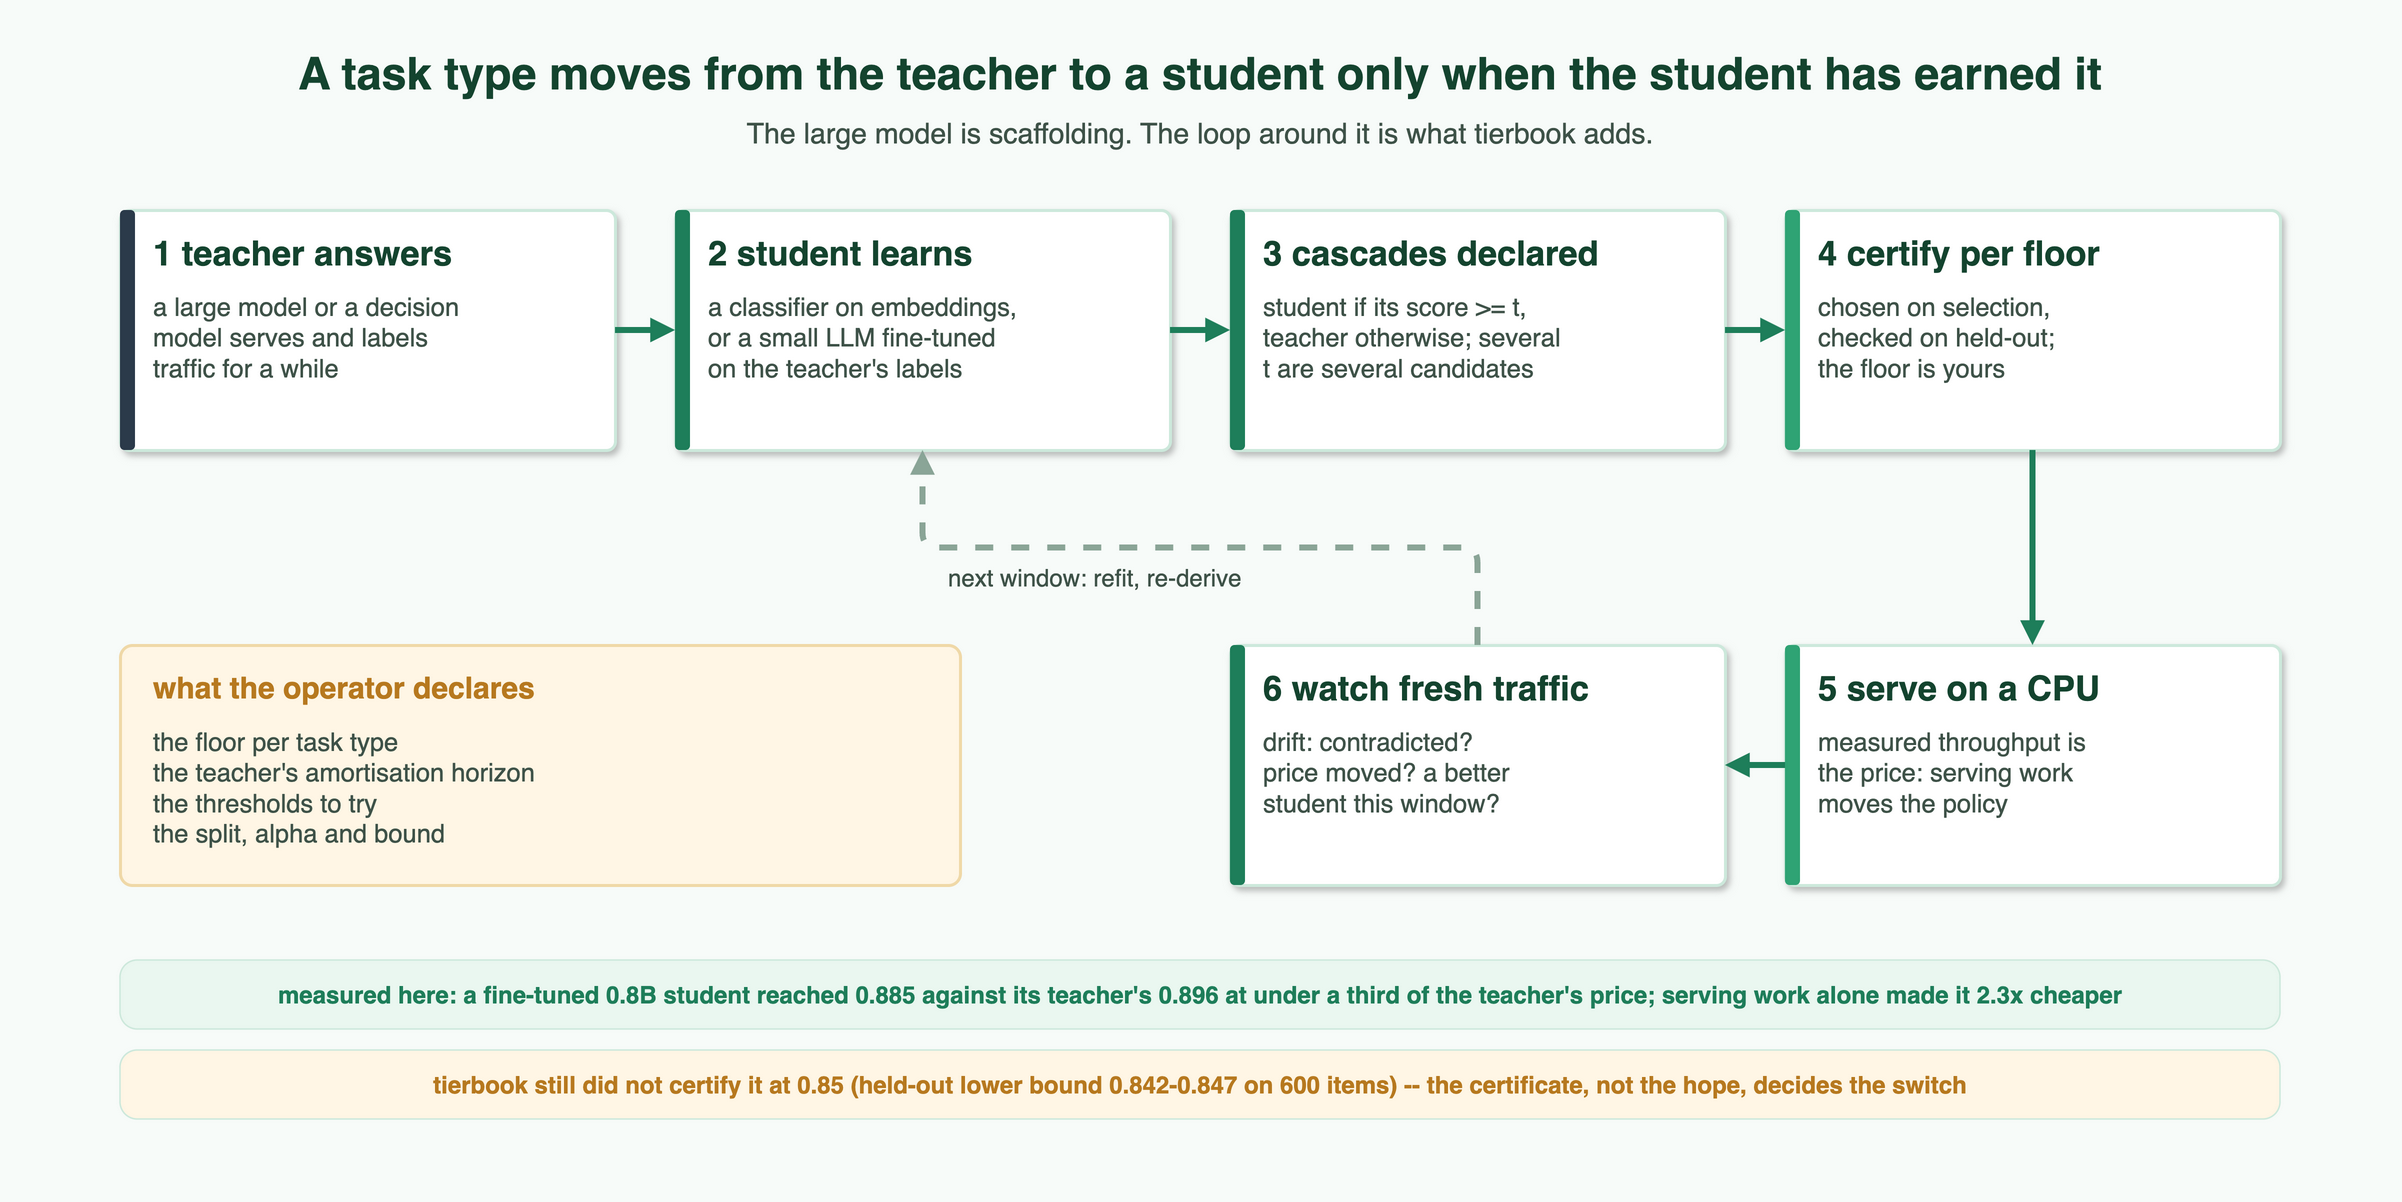
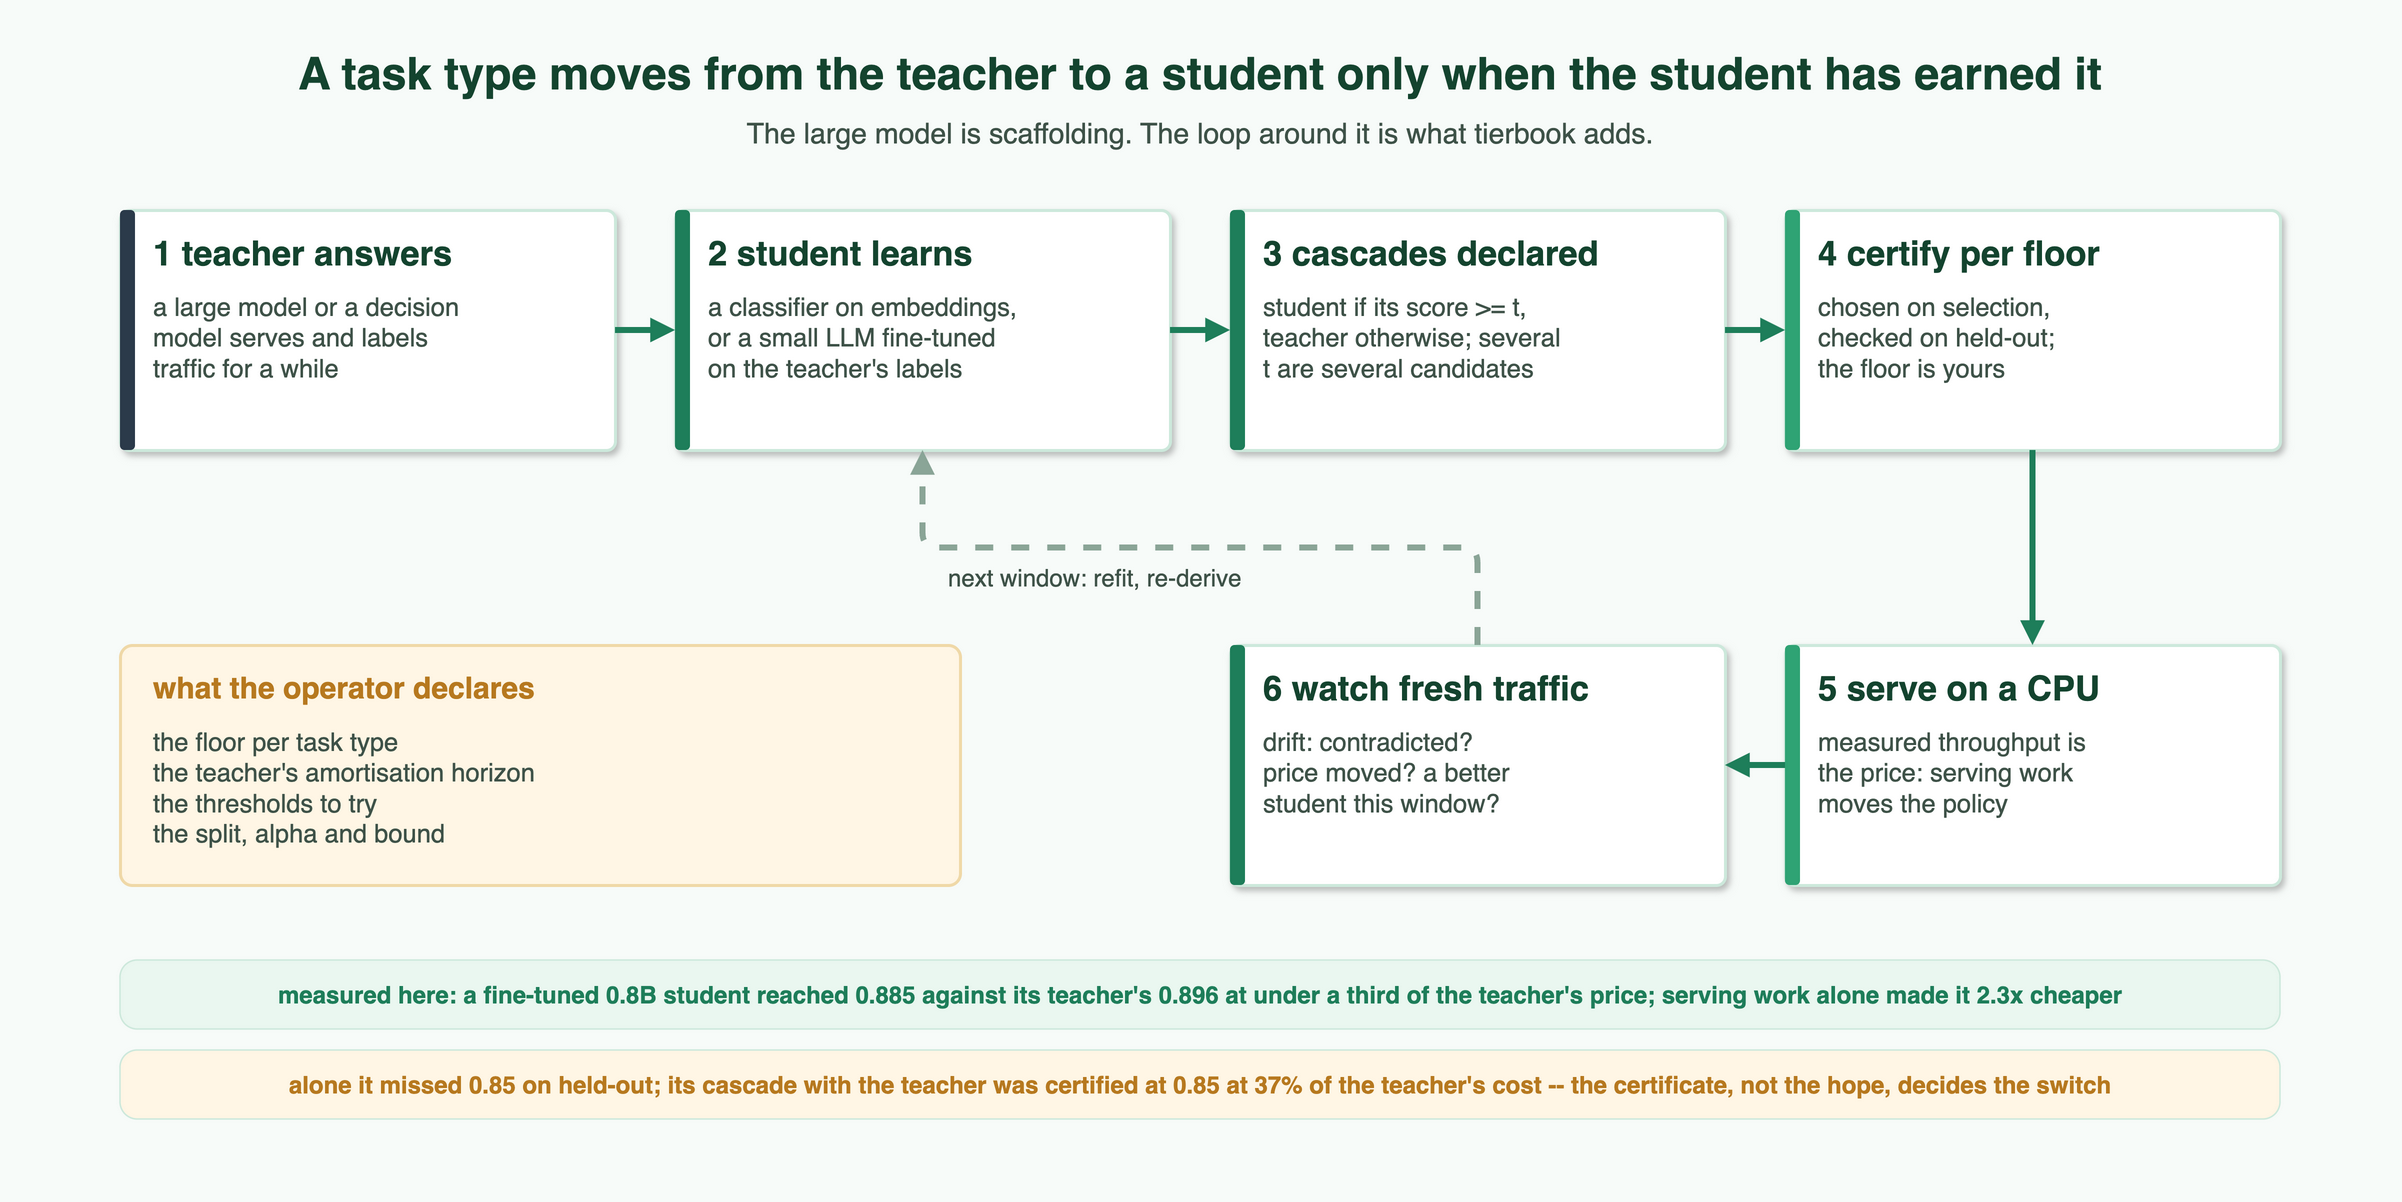
verify: rounds 2 and 11, the real Prismyra router certified at 0.80, served from the export, and confirmed by drift

Changed region(s): [[0.1249, 0.8927, 0.8743, 0.9235]]

diff --git a/docs/diagrams/gen.py b/docs/diagrams/gen.py
@@ -336,8 +336,9 @@ def student_ops():
            "the split, alpha and bound", size=17, align="left", valign="top")
     d.chip(80, 640, 1440, 46, "measured here: a fine-tuned 0.8B student reached 0.885 against its teacher's 0.896 at under a "
            "third of the teacher's price; serving work alone made it 2.3x cheaper", size=16)
-    d.chip(80, 700, 1440, 46, "tierbook still did not certify it at 0.85 (held-out lower bound 0.842-0.847 on 600 items) "
-           "-- the certificate, not the hope, decides the switch", fill=AMBER_SOFT, color=AMBER, size=16)
+    d.chip(80, 700, 1440, 46, "alone it missed 0.85 on held-out; its cascade with the teacher was certified at 0.85 at 37% "
+           "of the teacher's cost -- the certificate, not the hope, decides the switch", fill=AMBER_SOFT, color=AMBER,
+           size=16)
     return d
 
 

diff --git a/README.md b/README.md
@@ -168,14 +168,17 @@ small model trained on the traffic itself. [Prismyra](https://github.com/littlem
 and logs what it answered; its learn pipeline refits a LightGBM student on that log every window, with text embeddings
 registered as features; tierbook certifies, per window, whether the student, the student routed by confidence, or
 Prismyra itself is the cheapest at your floor, and exports the decision as the router block of Prismyra's learn spec.
-Serving through Prismyra's router, with its confidence-mode admission, is still being verified. The run behind the
+That loop ran end to end: at a floor of 0.80 the policy certified Prismyra's confidence-mode router at a fifth of
+Prismyra's cost per accepted task, Prismyra served the exported spec, the student answered 68 % of 300 fresh requests
+in a median 13.8 ms, and `drift` confirmed the assignment (263 of 300 accepted). The run behind the
 numbers is in [`docs/verify/v0.5.0-distillation-loop.md`](docs/verify/v0.5.0-distillation-loop.md) and the pieces in
 [`examples/distillation_loop/`](examples/distillation_loop/README.md).
 
 The student need not be a classifier. A `Qwen/Qwen3.5-0.8B` fine-tuned on the teacher's labels accepted 0.885 of the
 certification items against the teacher's 0.896 and the LightGBM student's 0.810, served on a 4-vCPU Graviton4
-instance at under a third of the teacher's price per attempt; at a floor of 0.85 its held-out lower bound fell short
-by 0.003 to 0.008 on 600 items, and tierbook said so rather than certifying it.
+instance at under a third of the teacher's price per attempt. At a floor of 0.85 the student alone fell short on the
+held-out half; with a held-out ladder (below), its cascade with the teacher was certified at 37 % of the teacher's cost
+per accepted task.
 
 ### Cascades: student when sure, teacher otherwise
 
@@ -196,8 +199,9 @@ deferred item the teacher never answered is `unobserved`; an attempt recorded un
 because the record cannot say which part answered or what each consumed. The fallback may itself be a cascade; the
 primary may not, because a cascade's attempts carry no score of their own. Several thresholds are several candidates,
 chosen on selection and checked on held-out like any arm. The vLLM Semantic Router export refuses a cascade, because a
-router that picks one model per request cannot run one. Prismyra's router has a confidence mode that matches this shape
-(`--target prismyra-learn`); serving a cascade through it is still being verified.
+router that picks one model per request cannot run one. Prismyra's router runs this shape when the student is one
+Prismyra trained itself (`--target prismyra-learn`); a cascade over a separately served model, such as the fine-tuned
+0.8B above, has no router here yet.
 
 ## A live run
 
@@ -261,9 +265,10 @@ from the survey in [`docs/prior-art-2026-11.md`](docs/prior-art-2026-11.md).
 
 ## Status
 
-v0.5.0. The certification loop runs end to end on billed traffic through vLLM Semantic Router. The distillation lane is
-shown up to the certificate: Prismyra labels, its LightGBM student is refitted per window, tierbook certifies per window;
-serving through Prismyra's router is still being verified.
+v0.5.0. The certification loop runs end to end on billed traffic through vLLM Semantic Router. The distillation lane
+runs end to end through Prismyra's own router: Prismyra labels, its LightGBM student is refitted per window, tierbook
+certifies per window, the export is served, and `drift` checks the served traffic. A cascade over a separately served
+student is certified and priced but not yet served by a router.
 
 Known limits: vLLM Semantic Router 0.4.0 rejects Claude responses that carry reasoning (`unknown field
 "reasoning_details"`), so routing those needs its `main` or a 0.5.0 build. Not yet shown: more than one router replica,

diff --git a/docs/verify/v0.5.0-distillation-loop.md b/docs/verify/v0.5.0-distillation-loop.md
@@ -204,7 +204,29 @@ test). On round 9's evidence, unchanged:
 At 0.85 the policy now serves a CPU student that answers 82 % of the certification items and hands the rest to Prismyra, at 37 % of
 Prismyra's own cost per accepted task, with the same held-out guarantee.
 
+## Round 2 and round 11: the real Prismyra router, certified and then served
+
+Round 2 gave Prismyra a confidence-mode admission bar (the hybrid that a confidence router serves is judged, not the
+student's full-coverage agreement) and a `--features-module` loader, on Prismyra's branch `feat/confidence-admission`.
+With the same 0.90 / 0.90 bars, the bge-small embedding student was admitted in confidence mode at tau 0.8 from window
+4 on. Prismyra's own server, running in confidence mode on that artifact, answered the 1,200 certification items for
+real at windows 4, 5, 6 and 9, the student serving 63-84 % of them.
+
+| window | real router's share answered by the student | held-out rate (lower bound) | at floor 0.85 | at floor 0.80 |
+|---|---|---|---|---|
+| 4 | 65 % | 0.861 (0.831) | Prismyra certified | the offline routed student certified, cheaper |
+| 5 | 84 % | 0.863 (0.833) | Prismyra certified | **the real router certified, $0.0000084** |
+| 6 | 82 % | 0.865 (0.834) | Prismyra certified | **the real router certified, $0.0000094** |
+| 9 | 63 % | 0.868 (0.838) | Prismyra certified (the router cleared selection and not held-out) | the offline routed student certified, cheaper |
+
+At 0.85 round 2's success condition did not hold, so its export step did not run. Round 11 ran it at 0.80 on window
+6: `tierbook export-policy --target prismyra-learn` wrote the confidence router into Prismyra's learn spec, Prismyra's
+server started on it (115 s), and 300 routed items never seen in training or certification were answered, 203 by the
+student (median 13.8 ms) and 97 by Prismyra (median 45.2 ms). `tierbook drift` against the deployed policy: 263 of 300
+accepted, lower bound 0.835 against the floor 0.80, **confirmed**; no re-derivation change, no unattributed attempts.
+
 ## Still running when this was written
 
-Round 2 (Prismyra's confidence-mode admission and the embedding students served by the real Prismyra router). Its
-result is appended here when it finishes. 
+Nothing. The fine-tuned 0.8B cascades of rounds 5-10 are certified and priced but have not been served by a router:
+Prismyra's router chooses between Prismyra and a student it trained itself, and neither router used here can run a
+separate model, read its score and call another. 
